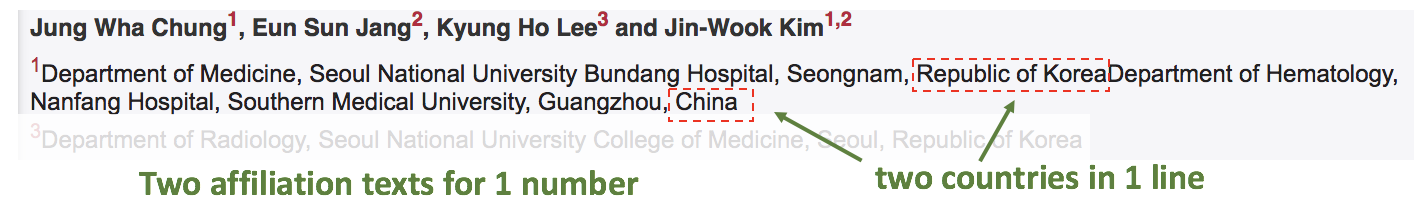
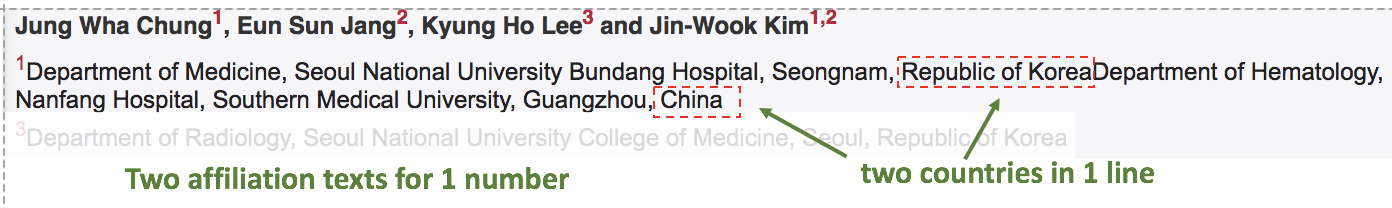
asdas

Changed region(s): [[0.0, 0.2596, 1.0, 0.8942], [0.0, 0.0288, 1.0, 0.2019], [0.0927, 0.75, 0.4634, 0.9231]]

diff --git a/front matter.rst b/front matter.rst
@@ -53,13 +53,13 @@ If you see that author name does not comply to these standards, please contact c
 2.4. Check that each author name contains a number linked to the affiliation text (i.e. affiliation number). One author name can contain a few affiliation numbers. If there is only one affiliation text for all authors, then each author name should have "1" next to it. 
 
 .. image:: /_static/html_aff_texts_and_authors.png
-	:scale: 35%
+	:scale: 60%
 	:alt: Affiliation texts and authors
    
 
 .. image:: /_static/html_one_affiliation_all_auth.png
    :alt: One affiliation for all authors
-   :scale: 35%
+   :scale: 60%
 
 2.5. Check that all affiliation numbers of the author are separated by commas (,). No other separator is allowed.
 
@@ -81,7 +81,7 @@ If you see that author name does not comply to these standards, please contact c
 
 .. image:: /_static/html_2_texts_1_number.png
    :alt: One affiliation for all authors
-   :scale: 45%
+   :scale: 55%
 
 
 In case you find several affiliation texts for one text number, please contact corresponding author and ask to provide correct affiliation texts and author affiliation numbers.
@@ -90,7 +90,7 @@ In case you find several affiliation texts for one text number, please contact c
 
 3.3. Check that there are no separators between affiliation text number and affiliation text itself (space is allowed). 
 
-.. image:: /_static/html_affiliation_text_numbers.png
+.. image:: /_static/html_affiliation_text_numbers_new.png
    :alt: Affiliation Numbers
 
 3.4. Check the format of the affiliation text. Authors are free to provide affiliation texts having any elements (e.g. e University, School, Department, Lab, Hospital, etc) in any sequence they like. Hoever certain rules apply to affiliation texts:
@@ -107,7 +107,7 @@ In case you find several affiliation texts for one text number, please contact c
 
 	.. image:: /_static/html_usa_state_name.png
 	   :alt: Affiliation Numbers
-	   :scale: 45%
+	   :scale: 60%
 	
 	- Check zip codes. Zip codes are optional element of affiliation texts. However, they should be used consistently: either all affiliation texts have zip codes or none.
 
@@ -117,7 +117,7 @@ In case you find several affiliation texts for one text number, please contact c
 
 	.. image:: /_static/html_aff_text_structure.png
 	   :alt: Affiliation text structure
-	   :scale: 45%
+	   :scale: 60%
 
 
 3.5. Check for words "Current address:" or "Present address:" at the begining of affiliation text. Only these 2 options are allowed (alternatives like "Curent/Present address:" are not allowed). "Address" should be followed by colon (:). Affiliation text containing "Current address:" or "Present address:" should have affiliation text number (not symbol).
